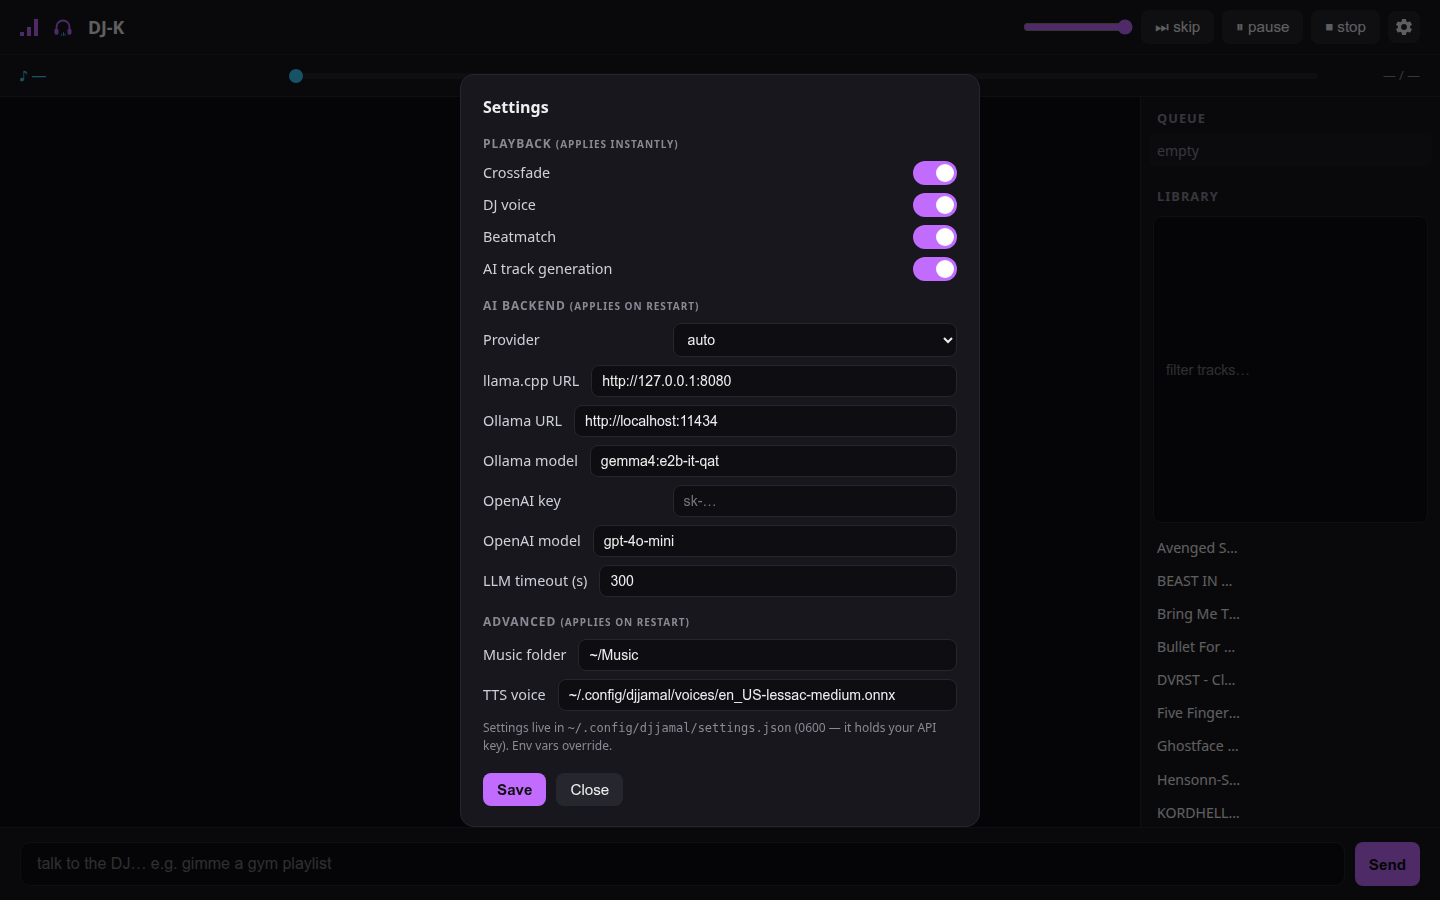
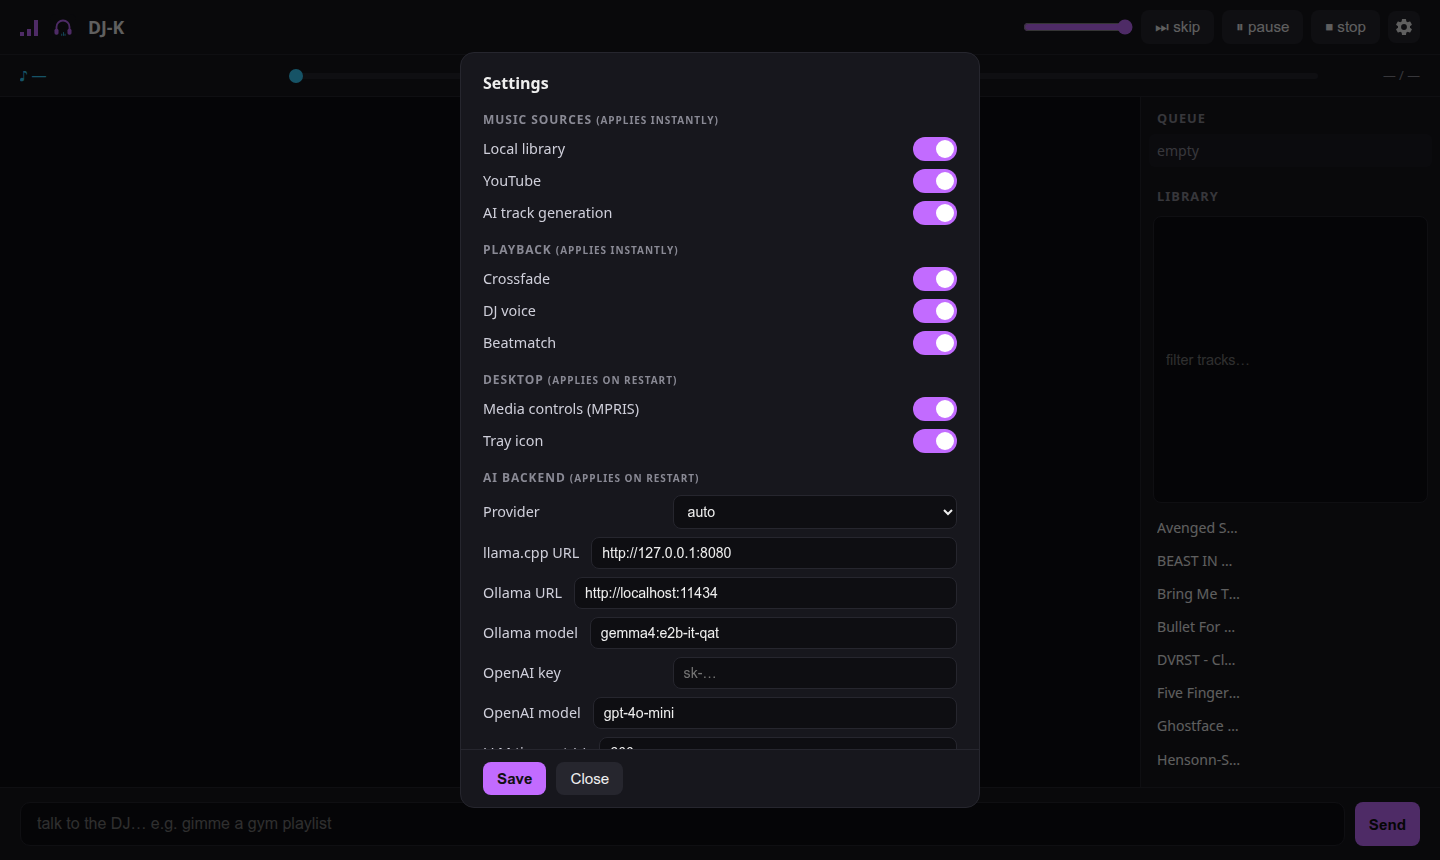
feat: v0.9.1 — per-source and desktop toggles; every feature switchable

diff --git a/dj/index.html b/dj/index.html
@@ -30,7 +30,8 @@
              align-items:center; justify-content:center; z-index:10; }
   #overlay.open { display:flex; }
   #settings { background:var(--panel); border:1px solid var(--line); border-radius:14px;
-              width:min(520px, 92vw); max-height:86vh; overflow-y:auto; padding:20px 22px; }
+              width:min(520px, 92vw); max-height:88vh; display:flex; flex-direction:column;
+              overflow:hidden; }
   #settings h2 { font-size:1rem; margin-bottom:2px; }
   #settings h3 { font-size:.75rem; color:var(--dim); text-transform:uppercase;
                  letter-spacing:.08em; margin:16px 0 8px; }
@@ -50,7 +51,9 @@
   .switch input:checked + span { background:var(--accent); }
   .switch input:checked + span::before { transform:translateX(20px); background:#fff; }
   #settings .note { color:var(--dim); font-size:.75rem; margin-top:4px; }
-  #settings .actions { display:flex; gap:10px; margin-top:18px; align-items:center; }
+  #settings .actions { display:flex; gap:10px; align-items:center;
+              padding:12px 22px; border-top:1px solid var(--line); flex:none; }
+  #sbody { overflow-y:auto; padding:18px 22px; }
   #savemsg { font-size:.8rem; color:var(--accent2); flex:1; }
   #vol { width:110px; accent-color:var(--accent); }
   #now { padding:8px 20px; background:var(--panel); border-bottom:1px solid var(--line);
@@ -131,12 +134,19 @@
 </div>
 <div id="overlay">
   <div id="settings">
+    <div id="sbody">
     <h2>Settings</h2>
+    <h3>Music sources <small>(applies instantly)</small></h3>
+    <div class="row"><label>Local library</label><label class="switch"><input type="checkbox" id="s_source_local"><span></span></label></div>
+    <div class="row"><label>YouTube</label><label class="switch"><input type="checkbox" id="s_source_youtube"><span></span></label></div>
+    <div class="row"><label>AI track generation</label><label class="switch"><input type="checkbox" id="s_musicgen"><span></span></label></div>
     <h3>Playback <small>(applies instantly)</small></h3>
     <div class="row"><label>Crossfade</label><label class="switch"><input type="checkbox" id="s_crossfade"><span></span></label></div>
     <div class="row"><label>DJ voice</label><label class="switch"><input type="checkbox" id="s_tts"><span></span></label></div>
     <div class="row"><label>Beatmatch</label><label class="switch"><input type="checkbox" id="s_beatmatch"><span></span></label></div>
-    <div class="row"><label>AI track generation</label><label class="switch"><input type="checkbox" id="s_musicgen"><span></span></label></div>
+    <h3>Desktop <small>(applies on restart)</small></h3>
+    <div class="row"><label>Media controls (MPRIS)</label><label class="switch"><input type="checkbox" id="s_mpris"><span></span></label></div>
+    <div class="row"><label>Tray icon</label><label class="switch"><input type="checkbox" id="s_tray"><span></span></label></div>
     <h3>AI backend <small>(applies on restart)</small></h3>
     <div class="row"><label>Provider</label><select id="s_provider"><option>auto</option><option>llamacpp</option><option>ollama</option><option>openai</option></select></div>
     <div class="row"><label>llama.cpp URL</label><input type="text" id="s_llamacpp_url"></div>
@@ -149,6 +159,7 @@
     <div class="row"><label>Music folder</label><input type="text" id="s_music_dir"></div>
     <div class="row"><label>TTS voice</label><input type="text" id="s_tts_voice"></div>
     <div class="note">Settings live in <code>~/.config/djjamal/settings.json</code> (0600 — it holds your API key). Env vars override.</div>
+    </div>
     <div class="actions">
       <button id="s_save" style="background:var(--accent);color:#111;font-weight:600">Save</button>
       <button id="s_close">Close</button>
@@ -220,9 +231,12 @@ fetch('/api/history').then(r => r.json()).then(h => {
 });
 
 // --- settings ---
-const KEYS = ["crossfade","tts","beatmatch","musicgen","provider","llamacpp_url",
+const KEYS = ["crossfade","tts","beatmatch","musicgen","source_local","source_youtube",
+  "mpris","tray","provider","llamacpp_url",
   "ollama_url","ollama_model","openai_model","openai_api_key","llm_timeout",
   "music_dir","tts_voice"];
+const applySourceVisibility = s =>
+  document.getElementById('libwrap').style.display = s.source_local ? '' : 'none';
 const overlay = $('overlay');
 const openSettings = async () => {
   const s = await (await fetch('/api/settings')).json();
@@ -232,6 +246,7 @@ const openSettings = async () => {
     else el.value = s[k] ?? '';
   }
   $('savemsg').textContent = '';
+  applySourceVisibility(s);
   overlay.classList.add('open');
 };
 $('gear').onclick = openSettings;
@@ -245,6 +260,7 @@ $('s_save').onclick = async () => {
     body[k] = el.type === 'checkbox' ? el.checked : el.value;
   }
   const r = await (await post('/api/settings', body)).json();
+  if (r.ok) applySourceVisibility(r.settings);
   $('savemsg').textContent = r.ok
     ? (r.restart_needed.length ? `saved — restart to apply: ${r.restart_needed.join(', ')}` : 'saved — live now')
     : ('error: ' + r.error);

diff --git a/tests/test_smoke.py b/tests/test_smoke.py
@@ -263,6 +263,70 @@ class Settings(unittest.TestCase):
     def test_restart_keys_marked(self):
         self.assertIn("provider", self.s.RESTART_KEYS)
         self.assertNotIn("crossfade", self.s.RESTART_KEYS)
+        self.assertIn("mpris", self.s.RESTART_KEYS)
+        self.assertNotIn("source_local", self.s.RESTART_KEYS)
+
+
+class SourceToggles(unittest.TestCase):
+    def setUp(self):
+        from dj import settings
+        self.settings = settings
+
+    def test_source_toggles_live(self):
+        self.assertTrue(self.settings.source_local())
+        self.assertTrue(self.settings.source_youtube())
+
+    def test_enqueue_smart_respects_sources(self):
+        from dj.main import enqueue_smart
+        lib = [{"path": "/x/a.mp3", "name": "a"}]
+
+        class FakePlayer:
+            def __init__(self):
+                self.q = []
+            def enqueue(self, src, title=""):
+                self.q.append((src, title))
+
+        # local off -> local hit skipped, falls to YouTube
+        p = FakePlayer()
+        with mock.patch.object(self.settings, "source_local", lambda: False), \
+             mock.patch.object(self.settings, "source_youtube", lambda: True):
+            enqueue_smart(p, lib, ["a", "zzz no such song"])
+        assert_sources = [s for s, _ in p.q]
+        self.assertNotIn("/x/a.mp3", assert_sources)
+        self.assertTrue(any(s.startswith(("ytq:", "https://")) for s in assert_sources), p.q)
+
+        # youtube off -> non-local queries skipped entirely
+        p2 = FakePlayer()
+        with mock.patch.object(self.settings, "source_local", lambda: True), \
+             mock.patch.object(self.settings, "source_youtube", lambda: False), \
+             mock.patch("dj.mpvproc.resolve_youtube",
+                        side_effect=AssertionError("yt used while disabled")):
+            enqueue_smart(p2, lib, ["a", "zzz no such song"])
+        self.assertEqual(p2.q, [("/x/a.mp3", "a")])
+
+        # both off -> nothing enqueued, no crash
+        p3 = FakePlayer()
+        with mock.patch.object(self.settings, "source_local", lambda: False), \
+             mock.patch.object(self.settings, "source_youtube", lambda: False):
+            enqueue_smart(p3, lib, ["a"])
+        self.assertEqual(p3.q, [])
+
+    def test_brain_hint_omits_library_when_local_off(self):
+        lib_hint = [{"name": "song", "path": "/x"}]
+        captured = {}
+        with mock.patch.object(djbrain.llm, "chat",
+                               lambda m: (captured.update(last=m[-1]["content"]) or
+                                          '{"reply":"ok","action":"chat","tracks":[]}')):
+            with mock.patch.object(self.settings, "source_local", lambda: False):
+                djbrain.think("hi", tracks_hint=lib_hint)
+        self.assertNotIn("Local library:", captured["last"])
+        self.assertIn("Sources available", captured["last"])
+        with mock.patch.object(djbrain.llm, "chat",
+                               lambda m: (captured.update(last=m[-1]["content"]) or
+                                          '{"reply":"ok","action":"chat","tracks":[]}')):
+            with mock.patch.object(self.settings, "source_local", lambda: True):
+                djbrain.think("hi", tracks_hint=lib_hint)
+        self.assertIn("Local library:", captured["last"])
 
 
 if __name__ == "__main__":

diff --git a/dj/main.py b/dj/main.py
@@ -7,7 +7,7 @@ sys.path.insert(0, os.path.dirname(os.path.dirname(os.path.abspath(__file__))))
 
 import threading
 
-from dj import djbrain, library, mpris, mpvproc, musicgen, tray, tts
+from dj import djbrain, library, mpris, mpvproc, musicgen, settings, tray, tts
 from dj.player import Player
 
 BOLD, CYAN, MAGENTA, DIM, RESET = "\033[1m", "\033[36m", "\033[35m", "\033[2m", "\033[0m"
@@ -52,12 +52,16 @@ def enqueue_smart(player, lib, queries):
             except Exception as e:
                 print(f"{DIM}yt resolve failed ({q}): {e}{RESET}")
 
+    use_local = settings.source_local()
+    use_yt = settings.source_youtube()
     for q in queries:
-        hit = library.resolve(lib, q)
+        hit = library.resolve(lib, q) if use_local else None
         if hit:
             player.enqueue(hit["path"], hit["name"])
-        else:
+        elif use_yt:
             pending_yt.append(q)
+        else:
+            print(f"{DIM}no music source enabled for: {q}{RESET}")
     if pending_yt:
         resolve_later(pending_yt[:1])     # first now, so playback starts quickly
         for q in pending_yt[1:]:
@@ -122,6 +126,9 @@ def main():
             player.stop()
             continue
         if msg == "/list":
+            if not settings.source_local():
+                print(f"{DIM}local source disabled in settings (/settings or the gear button){RESET}")
+                continue
             names = [t["name"] for t in (library.search(lib, "") or lib)]
             for n in names[:30]:
                 print(f"  {n}")
@@ -133,7 +140,6 @@ def main():
             print(f"rescanned: {len(lib)} tracks")
             continue
         if msg == "/settings":
-            from dj import settings
             for k, v in settings.snapshot().items():
                 shown = settings.mask(v) if k == "openai_api_key" else v
                 print(f"  {k}: {shown}")

diff --git a/dj/djbrain.py b/dj/djbrain.py
@@ -2,7 +2,7 @@
 import json
 import re
 
-from . import library, llm
+from . import library, llm, settings
 
 SYSTEM = """You are DJ-K, a fun radio DJ personality managing the user's music.
 You control playback. ALWAYS reply with a single JSON object, no markdown fences:
@@ -26,8 +26,14 @@ def think(user_msg, tracks_hint=None, history=None):
     messages = [{"role": "system", "content": SYSTEM}]
     for h in (history or [])[-6:]:
         messages.append(h)
-    lib = "\n".join(f"- {t['name']}" for t in (tracks_hint or [])[:library.MAX_TRACKS_TO_LLM])
-    user = user_msg if not lib else f"Local library:\n{lib}\n\nUser says: {user_msg}"
+    src = (f"local library {'on' if settings.source_local() else 'OFF'}, "
+           f"YouTube {'on' if settings.source_youtube() else 'OFF'}, "
+           f"AI generation {'on' if settings.musicgen() else 'OFF'}")
+    if settings.source_local():
+        lib = "\n".join(f"- {t['name']}" for t in (tracks_hint or [])[:library.MAX_TRACKS_TO_LLM])
+        user = f"Sources available: {src}\nLocal library:\n{lib}\n\nUser says: {user_msg}"
+    else:
+        user = f"Sources available: {src}\n\nUser says: {user_msg}"
     messages.append({"role": "user", "content": user})
     raw = llm.chat(messages)
     return _parse(raw)

diff --git a/dj/settings.py b/dj/settings.py
@@ -17,6 +17,10 @@ SCHEMA = {
     "tts":          ("DJ_TTS", "1", bool, True),
     "beatmatch":    ("DJ_BEATMATCH", "1", bool, True),
     "musicgen":     ("DJ_MUSICGEN", "1", bool, True),
+    "source_local": ("DJ_SOURCE_LOCAL", "1", bool, True),
+    "source_youtube": ("DJ_SOURCE_YOUTUBE", "1", bool, True),
+    "mpris":        ("DJ_MPRIS", "1", bool, False),
+    "tray":         ("DJ_TRAY", "1", bool, False),
     "provider":     ("DJ_PROVIDER", "auto", str, False),
     "llamacpp_url": ("DJ_LLAMACPP_URL", "http://127.0.0.1:8080", str, False),
     "ollama_url":   ("OLLAMA_URL", "http://localhost:11434", str, False),
@@ -103,3 +107,19 @@ def beatmatch():
 
 def musicgen():
     return resolve("musicgen")
+
+
+def source_local():
+    return resolve("source_local")
+
+
+def source_youtube():
+    return resolve("source_youtube")
+
+
+def mpris():
+    return resolve("mpris")
+
+
+def tray():
+    return resolve("tray")

diff --git a/dj/mpris.py b/dj/mpris.py
@@ -4,6 +4,8 @@ the system GObject introspection package (python3-gi, like mpv a system
 install, not pip); silently off when absent (CI, Windows, headless)."""
 import os
 
+from . import settings
+
 BUS_NAME = "org.mpris.MediaPlayer2.djk"
 OBJECT_PATH = "/org/mpris/MediaPlayer2"
 
@@ -63,7 +65,7 @@ def available():
     if os.name == "nt" or not os.environ.get("DBUS_SESSION_BUS_ADDRESS"):
         return False
     import importlib.util
-    return importlib.util.find_spec("gi") is not None
+    return settings.mpris() and importlib.util.find_spec("gi") is not None
 
 
 def start(player):

diff --git a/dj/tray.py b/dj/tray.py
@@ -3,7 +3,7 @@ python3-gi with AppIndicator3 (Ubuntu GNOME ships the shell side via
 ubuntu-appindicators). Silent no-op when unavailable."""
 import os
 
-from . import glibloop, mpris  # same availability base: gi + session bus
+from . import glibloop, mpris, settings  # mpris shares the gi + session-bus base
 
 
 def _indicator_module():
@@ -20,7 +20,7 @@ def _indicator_module():
 
 
 def available():
-    return mpris.available() and _indicator_module() is not None
+    return settings.tray() and mpris.available() and _indicator_module() is not None
 
 
 def start(player, icon_path):

diff --git a/dj/web.py b/dj/web.py
@@ -123,6 +123,8 @@ def make_handler(player, lib):
 
             if self.path == "/api/track":
                 # play/queue a specific library track by path (validated in player)
+                if not settings.source_local():
+                    return self._json({"error": "local source disabled"}, 400)
                 path = str(data.get("path", ""))
                 mode = data.get("mode", "queue")
                 if path not in {t["path"] for t in lib}:

diff --git a/AGENTS.md b/AGENTS.md
@@ -22,7 +22,7 @@ Personal AI DJ: natural-language chat that picks music, plays via mpv, talks lik
 
 ## Conventions
 
-- Config: `DJ_*` env vars still work and ALWAYS override `~/.config/djjamal/settings.json` (the settings UI writes that file; schema + precedence live in `dj/settings.py` — add new keys to `SCHEMA` there, never read env directly in feature modules). Playback toggles must stay live-readable (`settings.crossfade()` etc.), AI/path keys are import-time.
+- Config: `DJ_*` env vars still work and ALWAYS override `~/.config/djjamal/settings.json` (the settings UI writes that file; schema + precedence live in `dj/settings.py` — add new keys to `SCHEMA` there, never read env directly in feature modules). Playback + music-source toggles must stay live-readable (`settings.crossfade()`, `settings.source_local()` etc.), AI/path/desktop keys are import-time. ALL feature gating goes through these helpers — never an ad-hoc env read in a feature module.
 - Library cache: `~/.config/djjamal/library.json`, keyed to `DJ_MUSIC_DIR` (switching dirs triggers a rescan).
 - Crossfade = two overlapping mpv processes with volume ramps (`player.py`).
 - REPL slash commands: `/skip /pause /stop /queue /list /rescan /quit` — anything else goes to the DJ brain.

diff --git a/CHANGELOG.md b/CHANGELOG.md
@@ -3,6 +3,18 @@
 All notable changes to DJ Jamal are documented here.
 Format loosely follows [Keep a Changelog](https://keepachangelog.com/).
 
+## [0.9.1] — 2026-11-01
+
+### Added
+- Per-source toggles: **Local library** and **YouTube** can be turned off independently (live, instant) — `DJ_SOURCE_LOCAL` / `DJ_SOURCE_YOUTUBE` env equivalents; when both are off for a query, DJ-K says so instead of silently failing
+- Desktop toggles: **Media controls (MPRIS)** and **Tray icon** on/off (restart-apply) — `DJ_MPRIS` / `DJ_TRAY`
+- Settings modal reorganized into Music sources / Playback / Desktop / AI backend / Advanced, with a pinned Save bar; the library panel hides when the local source is off
+- The DJ brain now receives the live source list ("Sources available: local library on, YouTube OFF, …") and steers accordingly
+- 4 new tests (45 total)
+
+### Verified live
+- Local off: `/api/track` → 400, library panel hidden, and a Sabaton request resolved through YouTube (mpv streaming from googlevideo.com proves the reroute)
+
 ## [0.9.0] — 2026-11-01
 
 ### Added

diff --git a/dj/project-ledger.md b/dj/project-ledger.md
@@ -3,7 +3,7 @@
 ## Open (actively working)
 | Project | Next step | Last touched |
 |---------|-----------|--------------|
-| DJ-K (AI personal DJ) | idle — v0.9.0 settings UI + logo shipped; candidates: beat-phase, voice input | 2026-11-01 |
+| DJ-K (AI personal DJ) | idle — v0.9.1 every-feature toggles shipped; candidates: beat-phase, voice input | 2026-11-01 |
 
 ## Parked (interesting, paused ON PURPOSE)
 | Project | Reopen trigger | Closed? |
@@ -25,3 +25,4 @@
 - DJ Jamal v0.7.1: hardening sweep — ::1 crash, JSON 400, Host-header guard, /list cap; AUDIT LEDGER CLEAN
 - DJ-K v0.8.0: rebranded to DJ-K (brand + persona, internals kept); desktop presence — MPRIS media controls verified live (D-Bus Next advanced the real queue), tray icon, app-grid entry
 - DJ-K v0.9.0: settings UI (live playback toggles + AI backend/URLs/key mgmt, env-over-file precedence) + full logo/wordmark/favicon; API + UI verified live
+- DJ-K v0.9.1: per-source toggles (local/YouTube live, MPRIS/tray restart) — verified the reroute live (local off → Sabaton played from googlevideo.com)

diff --git a/README.md b/README.md
@@ -24,9 +24,10 @@ BPM badge. The same brain also runs as a terminal REPL.*
 
 ![DJ-K settings](assets/webui-settings.png)
 
-*Settings: playback toggles apply instantly; AI backend (provider, URLs, models,
-OpenAI key) and paths save to `~/.config/djjamal/settings.json` and apply on
-restart. Env vars still override the file. Open with the gear button or
+*Settings: music sources (local library / YouTube / AI generation) and playback
+toggles apply instantly; desktop integration (MPRIS, tray), AI backend (provider,
+URLs, models, OpenAI key) and paths save to `~/.config/djjamal/settings.json` and
+apply on restart. Env vars still override the file. Open with the gear button or
 [#settings](http://127.0.0.1:8090/#settings); the REPL has `/settings`.*
 
 ## Features
